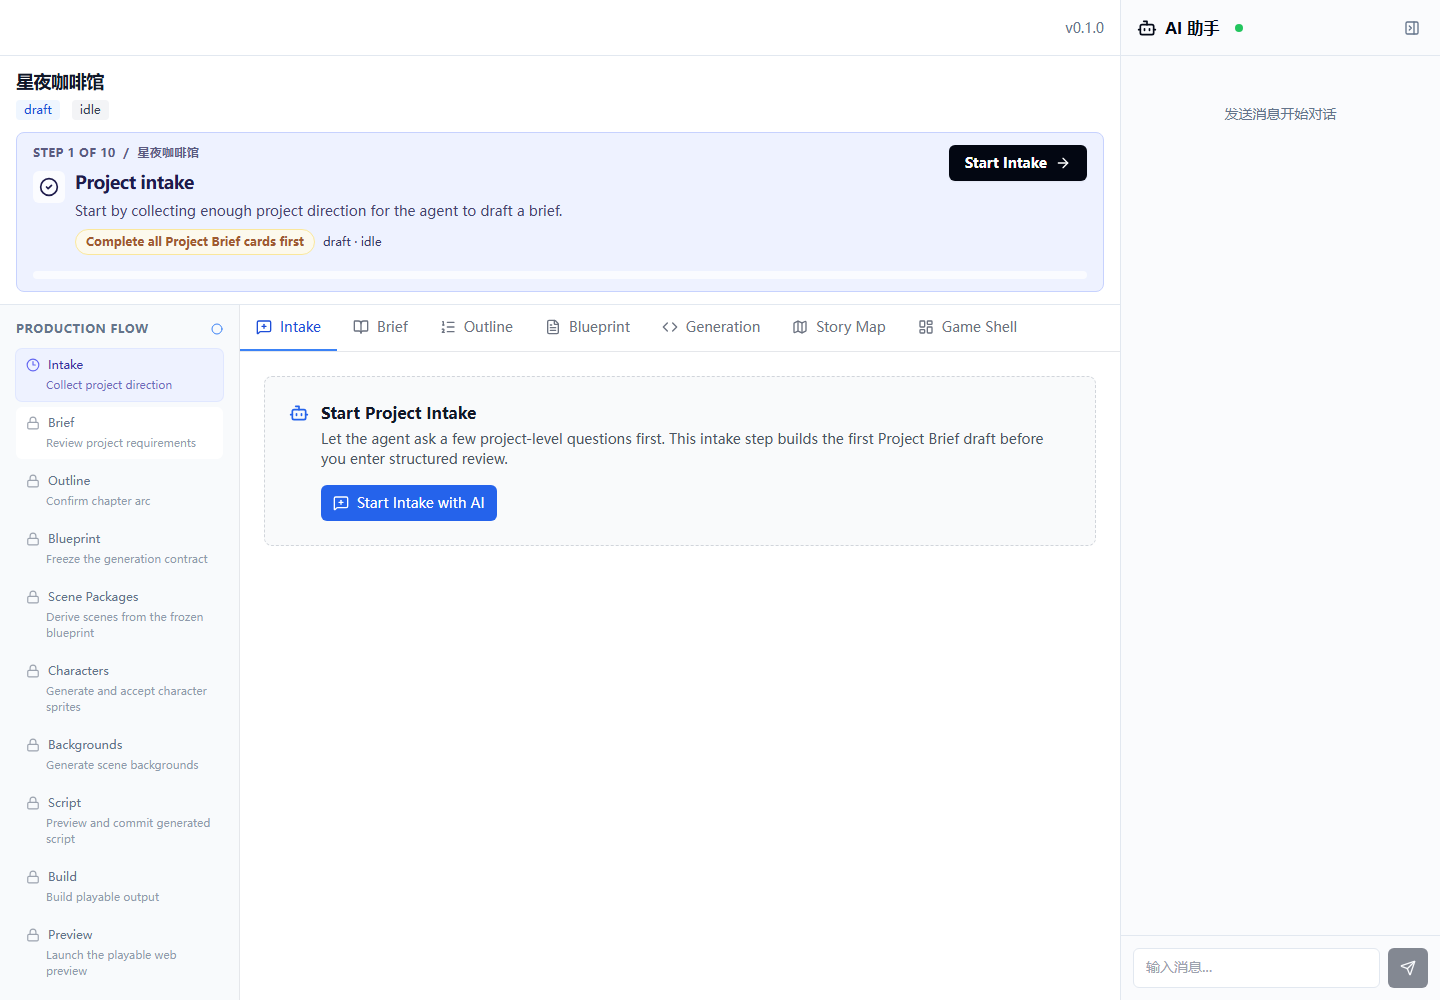
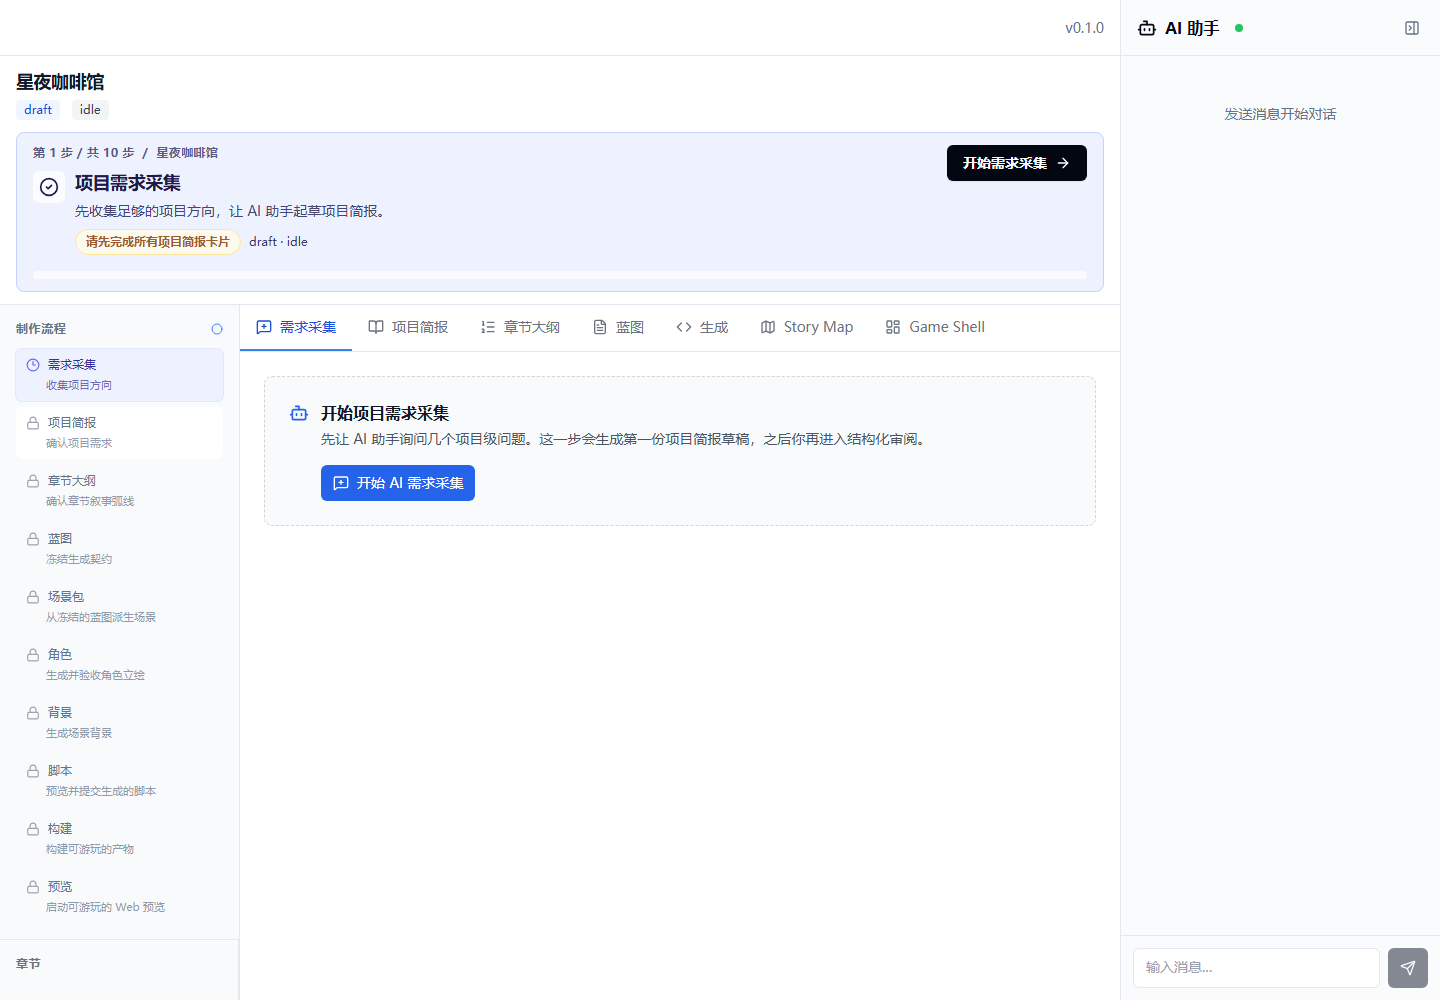
docs: refresh README screenshots for Chinese UI; changelog for dashboard UI batch

diff --git a/CHANGELOG.md b/CHANGELOG.md
@@ -2,6 +2,15 @@
 
 ## [Unreleased]
 
+### 2026-07-20 — Dashboard UI reliability and Chinese copy
+
+- Silent-failure fixes: brief promote switches tab only on success with an inline error banner on failure; Brief/Outline save+confirm handlers surface API errors inline instead of unhandled rejections.
+- The post-freeze auto-generation chain is bounded (attempt cap + 15-minute wall clock) with a clear continue-from-Generation-tab error; previously it could hang the page forever.
+- Generation tab actions are disabled with an explanation until the blueprint is frozen, instead of earning a raw 403.
+- Workflow UI copy unified to Simplified Chinese (stage labels, tabs, blocker chips, banners, intake/brief/outline/generation views, freeze panel); projects-page branding corrected to "RenPy MCP Creator"; Playwright e2e selectors synced to the new copy.
+- Scene tab takeover now remembers the previous tab; header CTA no longer skips incomplete asset steps; project-create failure uses an inline dialog error instead of `alert()`; chat WebSocket auto-reconnects with backoff on unintentional drops; removed five unimported workspace panels and dead code.
+- Dashboard tests grew from 46 to 70 vitest cases (all green).
+
 ### 2026-07-19 — Reliability fixes and open-source readiness
 
 - Fixed a fresh-install blocker: `httpx` moved from dev extras to runtime dependencies (it is imported by `sdk_provisioner`, LLM providers, and the image service); `uv.lock` refreshed.